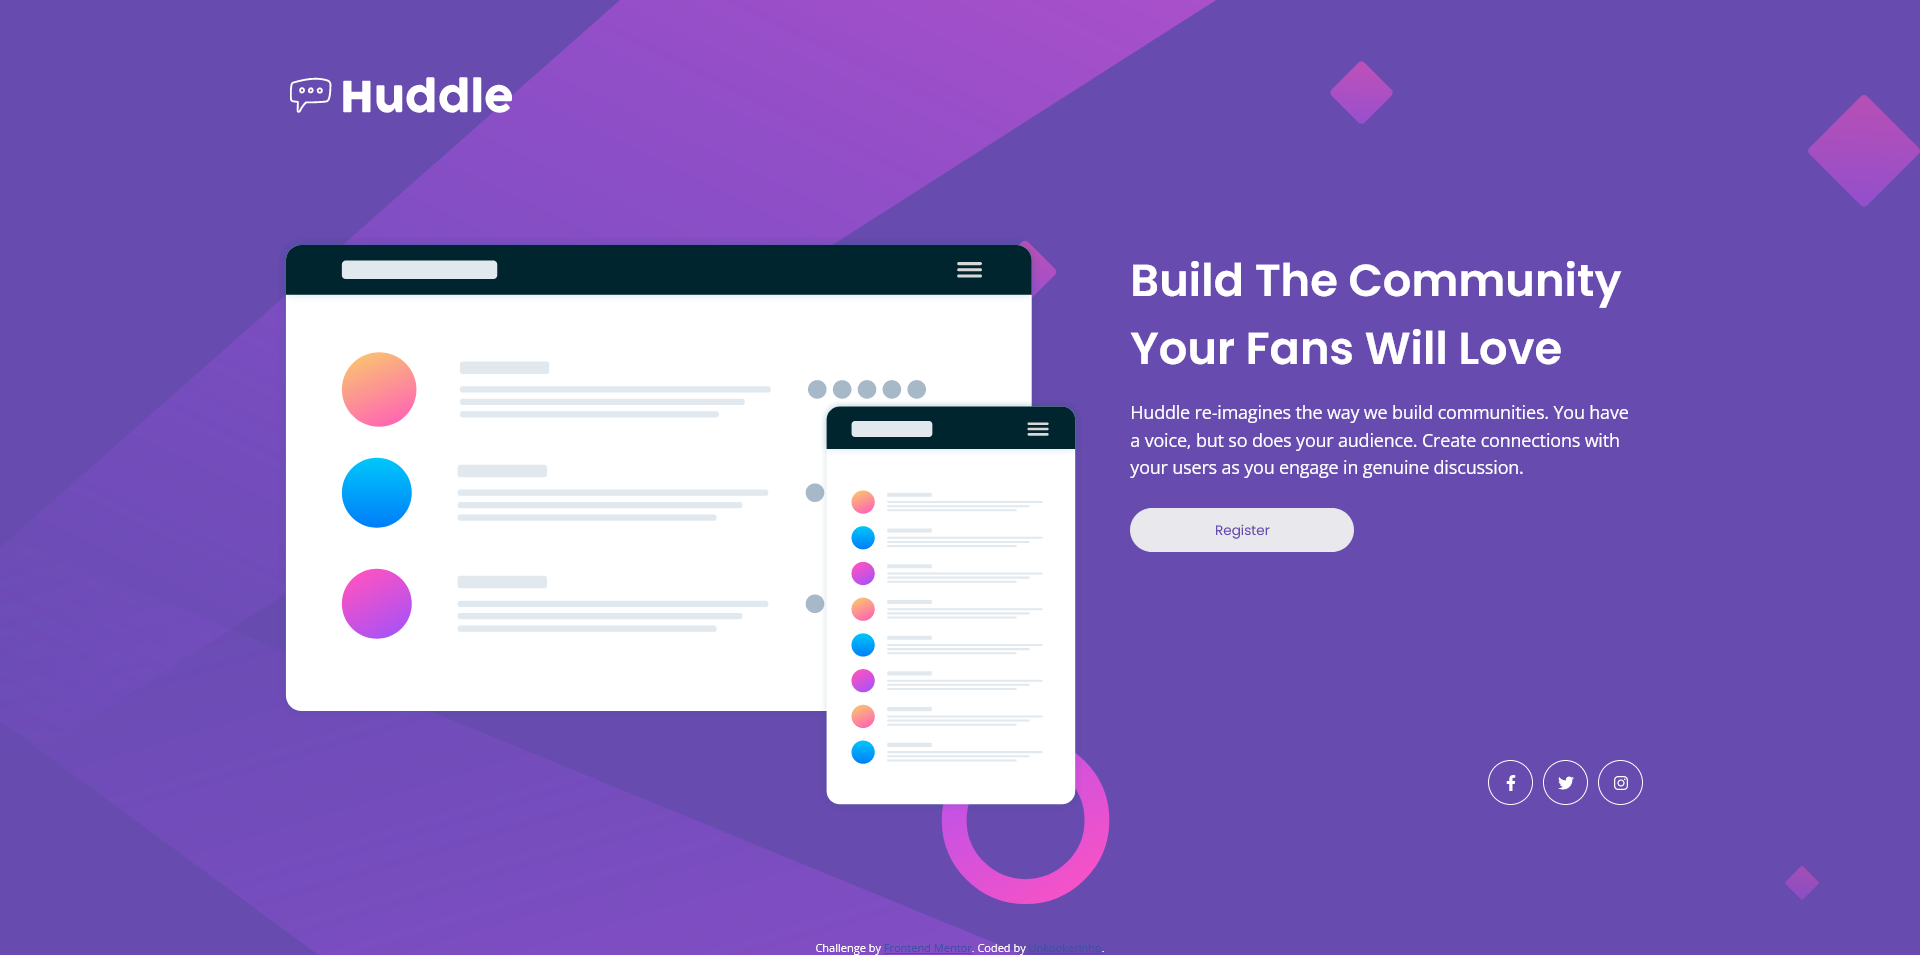
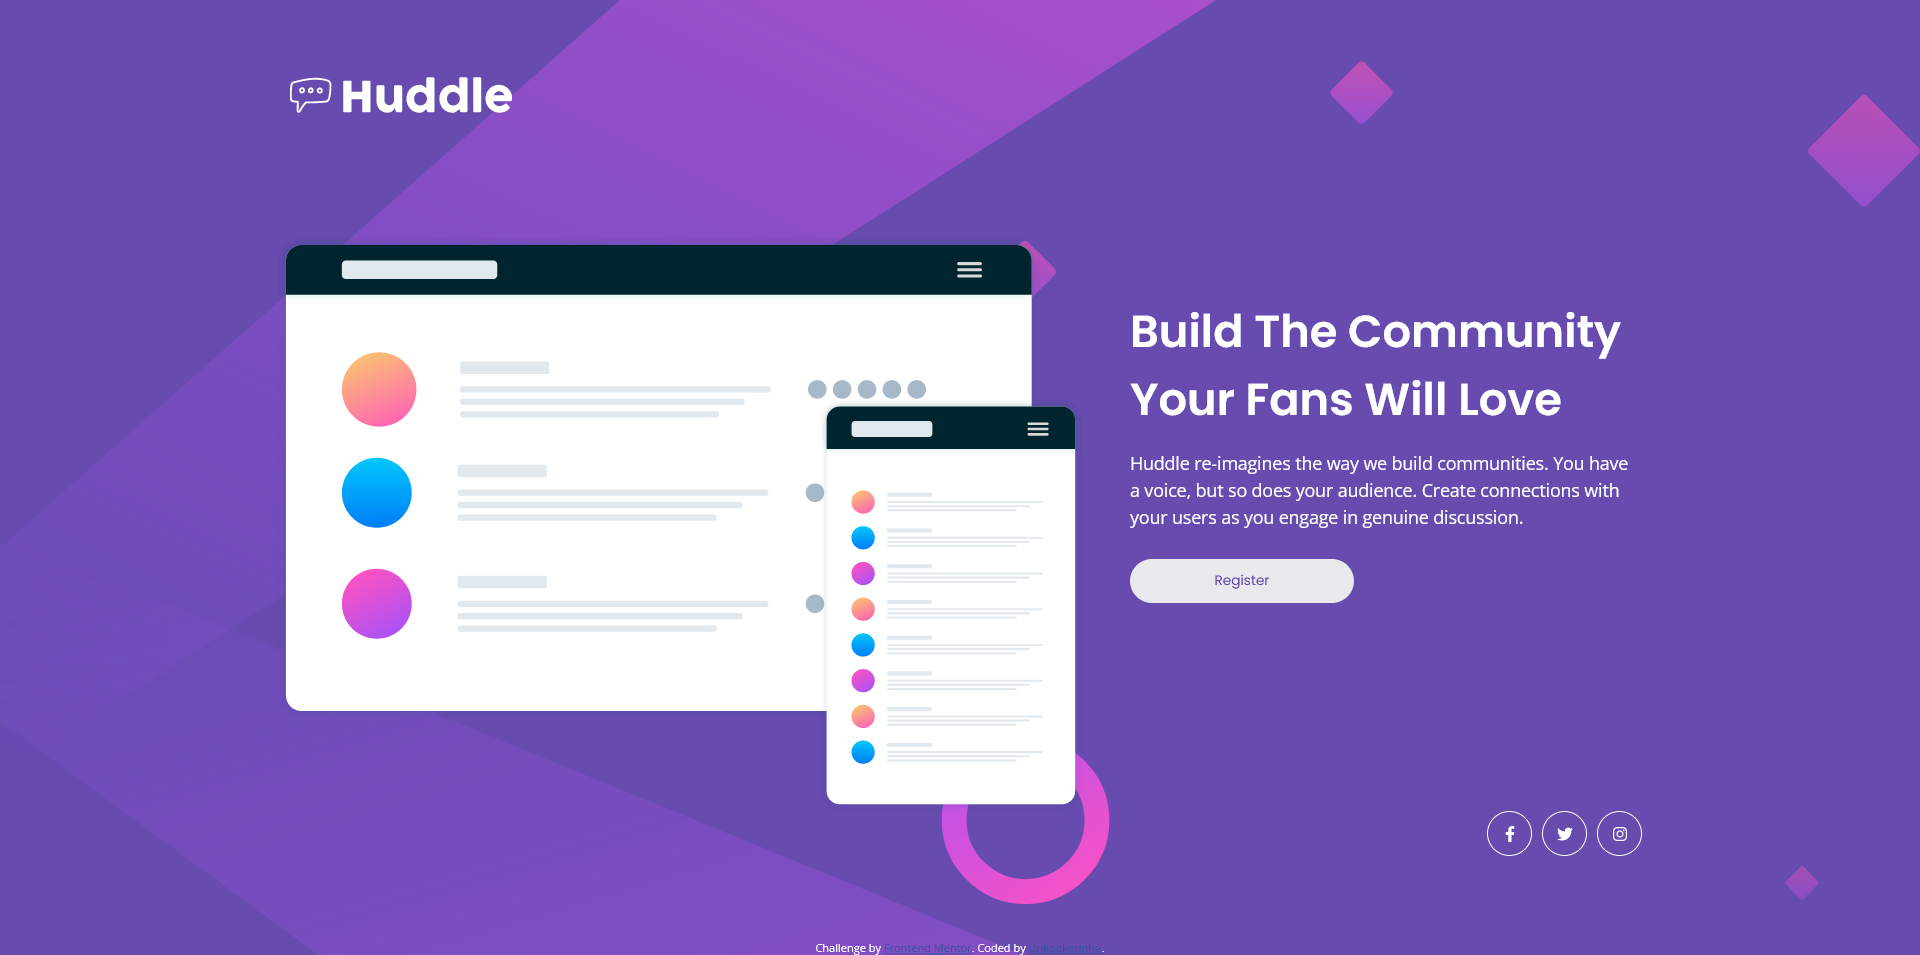
Visual Fix

Changed region(s): [[0.5625, 0.2733, 0.8438, 0.6377], [0.7812, 0.7895, 0.8438, 0.8806]]

diff --git a/style.css b/style.css
@@ -100,6 +100,7 @@ main {
     font-size: 1.1rem;
     line-height: 1.7rem;
     margin-bottom: 1.75rem;
+    padding: 0 15%;
 }
 
 .content button {
@@ -202,6 +203,9 @@ main {
     .content h1 {
         font-size: 2.8rem;
     }
+    .content p {
+        padding: 0;
+    }
     .social-media {
         justify-self: flex-end;
         align-self: flex-end;
@@ -236,5 +240,5 @@ main {
     text-align: center;
 }
 .attribution a {
-    color: hsl(228, 45%, 44%);
+    color: var(--clr-soft-magenta);
 }

diff --git a/index.html b/index.html
@@ -23,6 +23,7 @@
     />
     <link rel="stylesheet" href="style.css" />
   </head>
+
   <body>
     <main>
       <div class="images">
